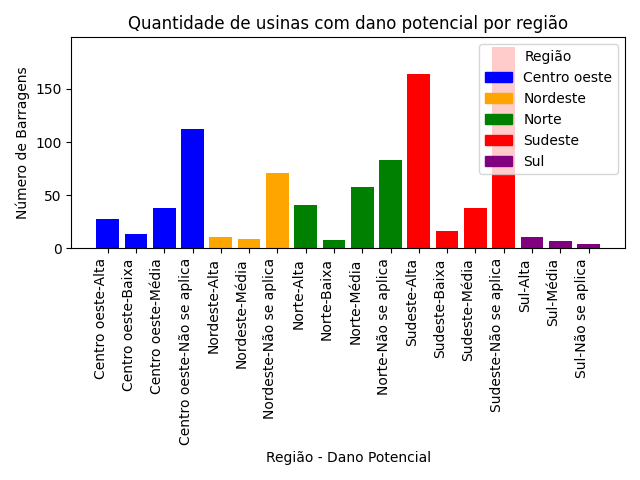
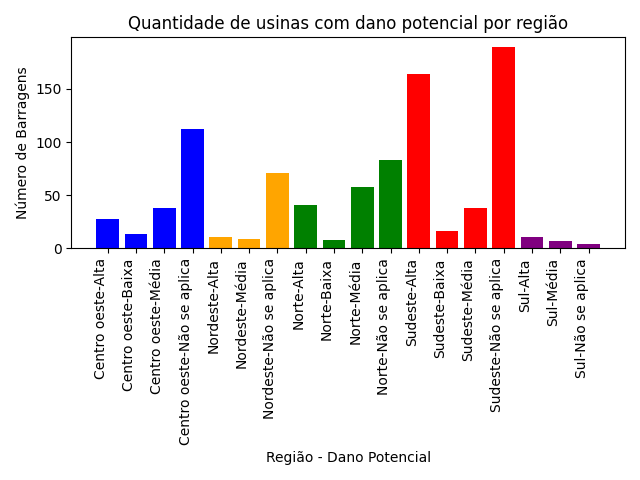
alteração

Changed region(s): [[0.75, 0.0938, 0.9688, 0.375]]

diff --git a/teste.py b/teste.py
@@ -65,6 +65,12 @@ dano_potencial_regiao = arquivo.groupby(['Região', 'Dano Potencial Associado - 
 
 dano_potencial_regiao.to_excel("dano potencial por regiao.xlsx",index=False, engine='openpyxl')
 
+nivel_emergencia_região=arquivo.groupby(['Região','Nível de Emergência']).size().reset_index(name='Quantidade de usinas por nível de emergência região')
+nivel_emergencia_região.to_excel('nivel_emergencia_região.xlsx',index=False, engine='openpyxl')
+
+dano_potencial_por_nivel_de_emergencia=arquivo.groupby(['Nível de Emergência','Dano Potencial Associado - DPA']).size().reset_index(name='número de usinas')
+dano_potencial_por_nivel_de_emergencia.to_excel('dano_potencial_por_nivel_de_emergencia.xlsx',index=False,engine='openpyxl')
+
 plt.bar(
     arquivo_dano_potencial_counts["Dano Potencial Associado - DPA"],
     arquivo_dano_potencial_counts["Número de Barragens"],
@@ -93,7 +99,7 @@ plt.bar(
 plt.xlabel("Tipo de Barragem de Mineração")
 plt.ylabel("Número de Barragens")
 plt.title("Número de Barragens por Tipo de Barragem")
-plt.xticks(rotation=90, ha="right")
+
 plt.tight_layout()
 plt.savefig("tipo_barragem_plot.png")
 plt.show()
@@ -125,9 +131,7 @@ plt.pie(
 )
 plt.axis("equal")
 plt.title("Distribuição de Barragens por Tipo de Minério")
-plt.legend(
-    title="Tipos de Minério", bbox_to_anchor=(1, 0.5), loc="center left", fontsize=8
-)
+
 plt.savefig("tipo minerio.png")
 plt.show()
 
@@ -167,9 +171,6 @@ plt.bar(
     color=cores
 )
 
-legendas = [plt.Rectangle((0,0),1,1, color=cores_regioes[regiao], edgecolor='none') for regiao in cores_regioes]
-plt.legend(legendas, cores_regioes.keys(), title='Região')
-
 plt.xlabel("Região - Dano Potencial")
 plt.ylabel("Número de Barragens")
 plt.title("Quantidade de usinas com dano potencial por região")
@@ -178,3 +179,28 @@ plt.tight_layout()
 plt.savefig("Quantidade de usinas com dano potencial por região.png")
 plt.show()
 
+cores = nivel_emergencia_região['Região'].map(cores_regioes)
+plt.bar(
+    nivel_emergencia_região['Região']+'-'+nivel_emergencia_região['Nível de Emergência'],
+    nivel_emergencia_região['Quantidade de usinas por nível de emergência região'],
+    color=cores
+)
+plt.xlabel("Região - nivel de emrgência")
+plt.ylabel("Número de Barragens")
+plt.title("Quantidade de usinas por nivel emergencial por região")
+plt.xticks(rotation=90, ha="right")
+plt.tight_layout()
+plt.savefig("Quantidade de usinas por nivel emergencial por região.png")
+plt.show()
+
+plt.bar(
+    dano_potencial_por_nivel_de_emergencia['Nível de Emergência']+'-'+dano_potencial_por_nivel_de_emergencia["Dano Potencial Associado - DPA"],
+    dano_potencial_por_nivel_de_emergencia['número de usinas']
+)
+plt.xlabel("Região - nivel de emrgência")
+plt.ylabel("Número de Barragens")
+plt.title("Quantidade de usinas por nivel emergencial por dano potencial")
+plt.xticks(rotation=90, ha="right")
+plt.tight_layout()
+plt.savefig("Quantidade de usinas por nivel emergencial por dano potencial.png")
+plt.show()
